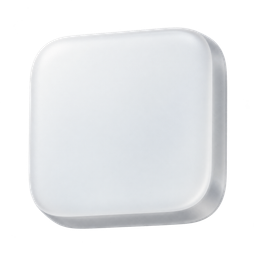
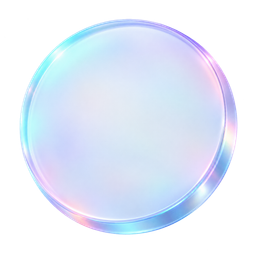
Refine holographic holders and bank drag guide

Changed region(s): [[0.0625, 0.0625, 0.9375, 0.9375]]

diff --git a/app/preview/ReturnExp1Sim.tsx b/app/preview/ReturnExp1Sim.tsx
@@ -3219,7 +3219,8 @@ function Dash2PersonCard({ onOpen }: { onOpen: () => void }) {
   const [holderIcon] = useProtoFlag("returnExp1V2HolderIcon");
   const [holderColor] = useProtoFlag("returnExp1V2HolderColor");
   const categoryColor = BUDGET_ALLOC.find(c => c.icon === holderIcon)?.tone ?? DASH2_TRACK_ORANGE;
-  const previewColors: Record<string, string> = { category: categoryColor, orange: "#C86914", blue: "#2878D5", pink: "#CE477B", green: "#487944", ink: "#23262A" };
+  const previewColors: Record<string, string> = { valentino: VALENTINO_500, green: "#1F9D55", red: "#D64545", orange: "#E57A17" };
+  const previewIconColors: Record<string, string> = { valentino: "#FFFFFF", green: "#FFFFFF", red: "#FFFFFF", orange: "#16181B" };
   const introFill = introRaw !== "stagger";
   // food is 6,200 of its 11,000 cap — the arc tells that, not the canon's stub
   const pct = 56.4;
@@ -3252,7 +3253,7 @@ function Dash2PersonCard({ onOpen }: { onOpen: () => void }) {
       <Dash2RingChart pct={pct} introFill={introFill} arc={DASH2_TRACK_ORANGE} head={DASH2_TRACK_ORANGE}>
         {holderRaw === "tile" ? (
           <div style={{ position: "absolute", inset: 0, display: "grid", placeItems: "center" }}>
-            <NeutralIconHolder iconSrc={`/return-exp1/icons/${holderIcon}.svg`} color={previewColors[holderColor] ?? categoryColor} />
+            <NeutralIconHolder iconSrc={`/return-exp1/icons/${holderIcon}.svg`} color={previewColors[holderColor] ?? VALENTINO_500} iconColor={previewIconColors[holderColor] ?? "#FFFFFF"} />
           </div>
         ) : <>
         {/* the stacked pair (2886:86453): the canon's Decorative Bold Orange
@@ -3379,6 +3380,7 @@ function Dash2BankPage({ onInfo }: { onInfo: () => void }) {
   // Geometry follows the pointer continuously; text selects the nearest demo
   // record immediately. Neither waits for an animated number or snapped dot.
   const [position, setPosition] = useState(DASH2_BANK_LIVE);
+  const [dragging, setDragging] = useState(false);
   const sel = Math.round(position);
   const sampleIndex = Math.round((position + 1) * DASH2_BANK_INTERVALS);
   const sample = DASH2_BANK_SAMPLES[sampleIndex];
@@ -3490,15 +3492,16 @@ function Dash2BankPage({ onInfo }: { onInfo: () => void }) {
           else if (e.key === "Home") { e.preventDefault(); select(0); }
           else if (e.key === "End") { e.preventDefault(); select(DASH2_BANK_LIVE); }
         }}
-        onPointerDown={(e) => { e.currentTarget.setPointerCapture(e.pointerId); pick(e.clientX, e.currentTarget, true); }}
+        onPointerDown={(e) => { setDragging(true); e.currentTarget.setPointerCapture(e.pointerId); pick(e.clientX, e.currentTarget, true); }}
         onPointerMove={(e) => { if (e.currentTarget.hasPointerCapture(e.pointerId)) pick(e.clientX, e.currentTarget); }}
         onPointerUp={(e) => {
+          setDragging(false);
           select(DASH2_BANK_LIVE);
           if (e.currentTarget.hasPointerCapture(e.pointerId)) e.currentTarget.releasePointerCapture(e.pointerId);
         }}
-        onPointerCancel={() => select(DASH2_BANK_LIVE)}
-        onLostPointerCapture={() => select(DASH2_BANK_LIVE)}
-        onBlur={() => select(DASH2_BANK_LIVE)}
+        onPointerCancel={() => { setDragging(false); select(DASH2_BANK_LIVE); }}
+        onLostPointerCapture={() => { setDragging(false); select(DASH2_BANK_LIVE); }}
+        onBlur={() => { setDragging(false); select(DASH2_BANK_LIVE); }}
         style={{ position: "relative", width: "100%", height: DASH2_BANK_CHART_H, marginTop: 16, touchAction: "pan-y", cursor: "ew-resize" }}
       >
         <svg width="100%" height={DASH2_BANK_CHART_H} viewBox={`0 0 ${chartWidth} ${DASH2_BANK_CHART_H}`} aria-hidden style={{ display: "block", overflow: "visible" }}>
@@ -3516,9 +3519,18 @@ function Dash2BankPage({ onInfo }: { onInfo: () => void }) {
             <mask id="re1BankFillMask" maskUnits="userSpaceOnUse" x={pts[0].x} y={0} width={last.x - pts[0].x} height={DASH2_BANK_CHART_H}>
               <rect x={pts[0].x} y={0} width={last.x - pts[0].x} height={DASH2_BANK_CHART_H} fill="url(#re1BankEdgeFade)" />
             </mask>
+            <linearGradient id="re1BankGuideFade" x1="0" y1="0" x2="0" y2="1">
+              <stop offset="0" stopColor="black" />
+              <stop offset="0.12" stopColor="white" />
+              <stop offset="0.88" stopColor="white" />
+              <stop offset="1" stopColor="black" />
+            </linearGradient>
+            <mask id="re1BankGuideMask" maskUnits="userSpaceOnUse" x={0} y={0} width={chartWidth} height={DASH2_BANK_CHART_H}>
+              <rect x={0} y={0} width={chartWidth} height={DASH2_BANK_CHART_H} fill="url(#re1BankGuideFade)" />
+            </mask>
           </defs>
           <path d={fill} fill="url(#re1BankFill)" mask="url(#re1BankFillMask)" style={{ opacity: drawn ? 1 : 0, transition: "opacity 600ms ease 300ms" }} />
-          <line data-bank-crosshair x1={marker.x} x2={marker.x} y1={0} y2={DASH2_BANK_CHART_H} stroke={BLUE_500} strokeOpacity={0.3} strokeWidth={1} style={{ opacity: drawn ? 1 : 0, transition: "opacity 180ms ease" }} />
+          <line data-bank-crosshair x1={marker.x} x2={marker.x} y1={0} y2={DASH2_BANK_CHART_H} stroke={BLUE_500} strokeOpacity={0.34} strokeWidth={1} vectorEffect="non-scaling-stroke" mask="url(#re1BankGuideMask)" style={{ opacity: dragging ? 1 : 0, transition: "opacity 120ms ease" }} />
           <path
             d={d}
             fill="none"
@@ -3643,7 +3655,7 @@ function Dash2TrackingPage({ onUpdate, onOpenTxn }: { onUpdate: () => void; onOp
           className="transition-transform active:scale-[0.99]"
           style={{ width: "100%", padding: "12px 24px", borderRadius: 100, border: "none", background: BTN_BG_PRIMARY_DEFAULT, ...typography.buttonNormal, color: TEXT_ON_COLOR_PRIMARY, cursor: "pointer" }}
         >
-          Update tracking
+          Replan Goal
         </button>
       </div>
       <SectionBand text="Transactions" />

diff --git a/app/components/NeutralIconHolder.tsx b/app/components/NeutralIconHolder.tsx
@@ -5,19 +5,21 @@ import Image from "next/image";
  * Pass color for a monochrome SVG mask; omit it to preserve a multicolor asset,
  * or provide children for an existing React icon. Artwork never bakes in a glyph.
  */
-export default function NeutralIconHolder({ iconSrc, color, size = 60, children }: {
+export default function NeutralIconHolder({ iconSrc, color, iconColor, size = 60, children }: {
   iconSrc?: string;
   color?: string;
+  iconColor?: string;
   size?: number;
   children?: ReactNode;
 }) {
   const glyph: CSSProperties = { width: "100%", height: "100%", display: "block" };
   return (
     <div aria-hidden data-icon-holder="tile" style={{ position: "relative", width: size, height: size, flexShrink: 0 }}>
-      <Image src="/return-exp1/ambient/variants/gen_icon-holder-tile.png" alt="" draggable={false} width={size} height={size} style={{ position: "absolute", inset: 0, width: "100%", height: "100%" }} />
-      <div style={{ position: "absolute", left: "29%", top: "29%", width: "42%", height: "42%", display: "grid", placeItems: "center", color, transform: "perspective(160px) rotateY(-12deg) rotateX(6deg)", filter: "drop-shadow(0 1px 0 rgba(255,255,255,.6))" }}>
+      <Image src="/return-exp1/ambient/variants/gen_icon-holder-tile.png" alt="" draggable={false} width={size} height={size} style={{ position: "absolute", inset: 0, width: "100%", height: "100%", filter: color ? `drop-shadow(0 0 0 ${color})` : undefined }} />
+      {color && <div aria-hidden style={{ position: "absolute", inset: 0, borderRadius: "50%", background: `linear-gradient(145deg, color-mix(in srgb, ${color} 62%, transparent), transparent 58%)`, mixBlendMode: "color", opacity: 0.8 }} />}
+      <div style={{ position: "absolute", left: "27%", top: "27%", width: "46%", height: "46%", borderRadius: "50%", display: "grid", placeItems: "center", color, background: color ? `color-mix(in srgb, ${color} 20%, white)` : undefined, boxShadow: color ? `inset 0 0 0 1px color-mix(in srgb, ${color} 28%, transparent)` : undefined, transform: "perspective(160px) rotateY(-12deg) rotateX(6deg)", filter: "drop-shadow(0 1px 0 rgba(255,255,255,.6))" }}>
         {children ?? (iconSrc && (color
-          ? <span style={{ ...glyph, backgroundColor: color, mask: `url("${iconSrc}") center / contain no-repeat`, WebkitMask: `url("${iconSrc}") center / contain no-repeat` }} />
+          ? <span style={{ ...glyph, backgroundColor: iconColor ?? "#fff", mask: `url("${iconSrc}") center / contain no-repeat`, WebkitMask: `url("${iconSrc}") center / contain no-repeat` }} />
           : <Image src={iconSrc} alt="" width={Math.round(size * .42)} height={Math.round(size * .42)} draggable={false} style={{ ...glyph, objectFit: "contain" }} />))}
       </div>
     </div>

diff --git a/app/lib/protoFlags.ts b/app/lib/protoFlags.ts
@@ -109,12 +109,10 @@ export const PROTO_FLAGS: ProtoFlagDef[] = [
     label: "Holder preview color",
     showWhen: { flag: "returnExp1V2IconHolder", test: (v) => v === "tile" },
     options: [
-      { id: "category", label: "Category" },
-      { id: "orange", label: "Orange" },
-      { id: "blue", label: "Blue" },
-      { id: "pink", label: "Pink" },
+      { id: "valentino", label: "Valentino" },
       { id: "green", label: "Green" },
-      { id: "ink", label: "Ink" },
+      { id: "red", label: "Red" },
+      { id: "orange", label: "Orange" },
     ],
   },
   {

diff --git a/docs/return-exp1-artwork-prompts.md b/docs/return-exp1-artwork-prompts.md
@@ -7,7 +7,7 @@ Generated with the built-in image_gen tool. Project assets are recorded in GENER
 Output: `public/return-exp1/ambient/variants/gen_icon-holder-tile.png` (256 × 256, transparent). Built-in image_gen; the DLS glyph stays a live overlay in NeutralIconHolder.tsx. Replaces the rejected pearl-coin experiment.
 
 ```text
-Use case: stylized-concept. Create a single neutral 2.5D rounded-square frosted resin tile on a genuinely transparent background. It is an EMPTY supporting illustration for a finance app's existing colored icon, which will be overlaid in code at 24px. No icon, symbol, lettering or text in the image. The tile has a broad blank milky satin front, very softly rounded cushion corners, and subtle smoke-grey translucent depth visible at its right and bottom edges. Nearly front-on: gentle 12-degree side tilt, 6-degree backward tilt. Soft diffuse lighting from upper left. Understated and tactile, no metal, chrome, shiny rim, circular coin, bevel border, pedestal, frame, hard shadow or extra object. Square canvas, centered complete object at 88% of canvas width, crisp readable silhouette at 56px. Neutral pearl-white and soft grey only, no rainbow or colored cast. The blank face must support orange, blue, pink, green and black vector icon overlays. True transparent alpha background, no floor, no background fill, no watermark.
+Use case: stylized-concept. Create one circular, softly rounded holographic glass tile on a genuinely transparent background. It is an EMPTY supporting illustration for a finance app's existing colored icon, overlaid in code at 24px. No icon, symbol, lettering or text in the image. Nearly front-on with slight 2.5D depth, translucent cyan/violet/pale-pink sheen, milky center, broad blank face, no coin or metallic medallion. Square canvas, centered complete object at 84% of canvas width, crisp at 56px. No progress ring, pedestal, frame, chrome, black outline, hard shadow, extra object or watermark. True transparent alpha outside the holder.
 ```
 
 ## Phone safe-area outpaints
@@ -159,6 +159,14 @@ Constraints: only extend this background, not a new design. Preserve the origina
 ```
 
 ## Travel goal objects
+
+### Neutral Holo glass
+
+Output: `public/return-exp1/ambient/variants/gen_ring-holo.png` (256 × 256, transparent). Built-in image_gen edit of the earlier plane; saturated rainbow was removed so it works with Valentino, orange, red and green ring accents.
+
+```text
+Use case: precise-object-edit. Preserve the exact paper-plane silhouette, angle, transparent canvas, proportions and soft glass material, but replace saturated rainbow cyan/pink/yellow with restrained pearlescent clear glass, soft silver, pale smoke grey and a subtle cool lavender tint. Keep gentle translucent refraction and highlights, with no vivid rainbow. Change only the material color treatment; preserve geometry and true alpha. No text, logo, extra object, ring, card, background or watermark.
+```
 
 ### Airplane
 

diff --git a/GENERATED_ASSETS.md b/GENERATED_ASSETS.md
@@ -64,7 +64,7 @@ The rejected pearl-coin experiment is not part of the project.
 | public/return-exp1/ambient/variants/gen_scene-watercolour-mobile-dark.webp | watercolour · dark, phone safe-area outpaint |
 | public/return-exp1/ambient/variants/gen_scene-terraces-mobile-light.webp | terraces · light, phone safe-area outpaint |
 | public/return-exp1/ambient/variants/gen_scene-terraces-mobile-dark.webp | terraces · dark, phone safe-area outpaint |
-| public/return-exp1/ambient/variants/gen_icon-holder-tile.png | Neutral frosted tile, 256 × 256 with alpha |
+| public/return-exp1/ambient/variants/gen_icon-holder-tile.png | Circular holographic tile, 256 × 256 with alpha |
 
 ## Earlier explorations
 
@@ -73,7 +73,7 @@ alternatives in this table are archived; their prompts remain for reference.
 
 | Asset | Concept | Style references given to the model | Engine | Created | Status |
 |---|---|---|---|---|---|
-| public/return-exp1/ambient/variants/gen_ring-holo.png | goal object · holo glass — iridescent glass paper plane | theme54/orb.png, theme54/crystal.png (material); ambient/goal.png (composition) | codex image_gen | 2026-09-18 | placeholder |
+| public/return-exp1/ambient/variants/gen_ring-holo.png | goal object · neutral holographic glass paper plane — compatible with Valentino, orange, red and green rings | prior holo plane (geometry/material reference) | built-in image_gen edit | 2026-09-18 | active prototype |
 | public/return-exp1/ambient/variants/gen_ring-aurora.png | goal object · aurora — luminous AI orb with one thin orbit | return-exp1/orb.png (subject/palette); proto fy_3d_drop.png (glow); ambient/goal.png (composition) | codex image_gen | 2026-09-18 | placeholder |
 | public/return-exp1/ambient/variants/gen_ring-grain.png | goal object · grain — three plain coins in the grainy brand gradient | proto fy_bg_violet.png, fy_bg_galaxy.png (texture); ambient/goal.png (composition) | codex image_gen | 2026-09-18 | placeholder |
 | public/return-exp1/ambient/variants/gen_ring-clay.png | goal object · soft clay — matte clay Fuji with a cloud | ambient/goal.png, ambient/phone.png (the current soft isometric 3D) | codex image_gen | 2026-09-18 | placeholder |

diff --git a/docs/return-exp1-spec.md b/docs/return-exp1-spec.md
@@ -28,9 +28,12 @@
 > conversion remains unchanged. Update tracking uses the primary CTA tokens.
 > Every scene has a separate upward-outpainted mobile light/dark WebP; desktop
 > originals remain. Mobile scene height is 1.5 × viewport width + safe-area top.
-> Tracker-holder previews keep glyphs live in code, independent of the neutral
-> backing illustration, with icon and color controls in the debug panel. Current
-> remains the default; Frosted tile replaces the rejected Pearl 2.5D option.
+> Tracker-holder previews keep glyphs live in code, independent of the circular
+> holographic backing illustration, with four accent controls (Valentino, green,
+> red, orange). Icons switch to white or black for clear contrast. Current remains
+> the default; Frosted tile replaces the rejected Pearl 2.5D option.
+> The Holo glass travel object is now a restrained clear/pearl holographic plane,
+> with saturated rainbow removed so it stays neutral against all four ring colors.
 > The iOS keyboard shell recognizes the launcher's explicit focus handoff;
 > input opacity stays under the shell's control while its reveal is suppressed.
 
